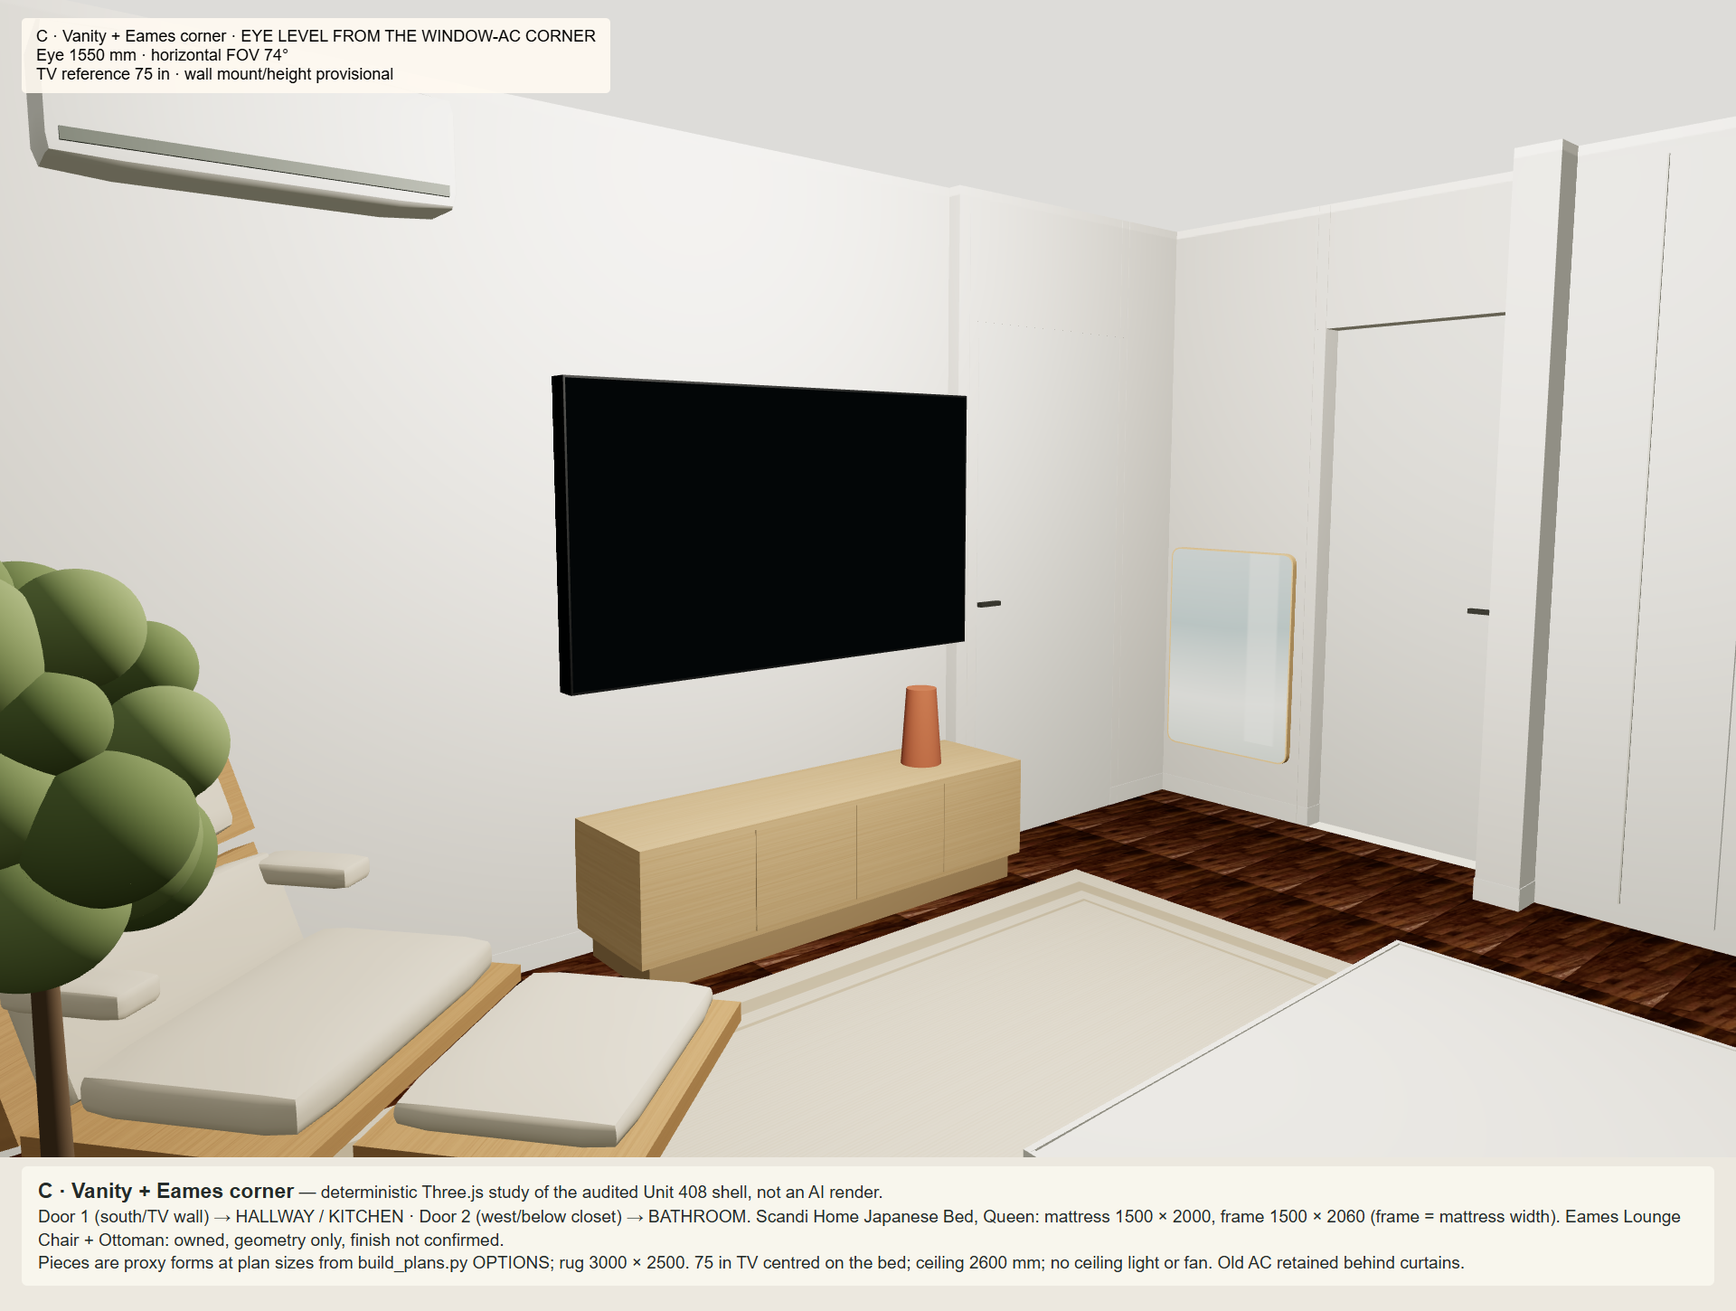
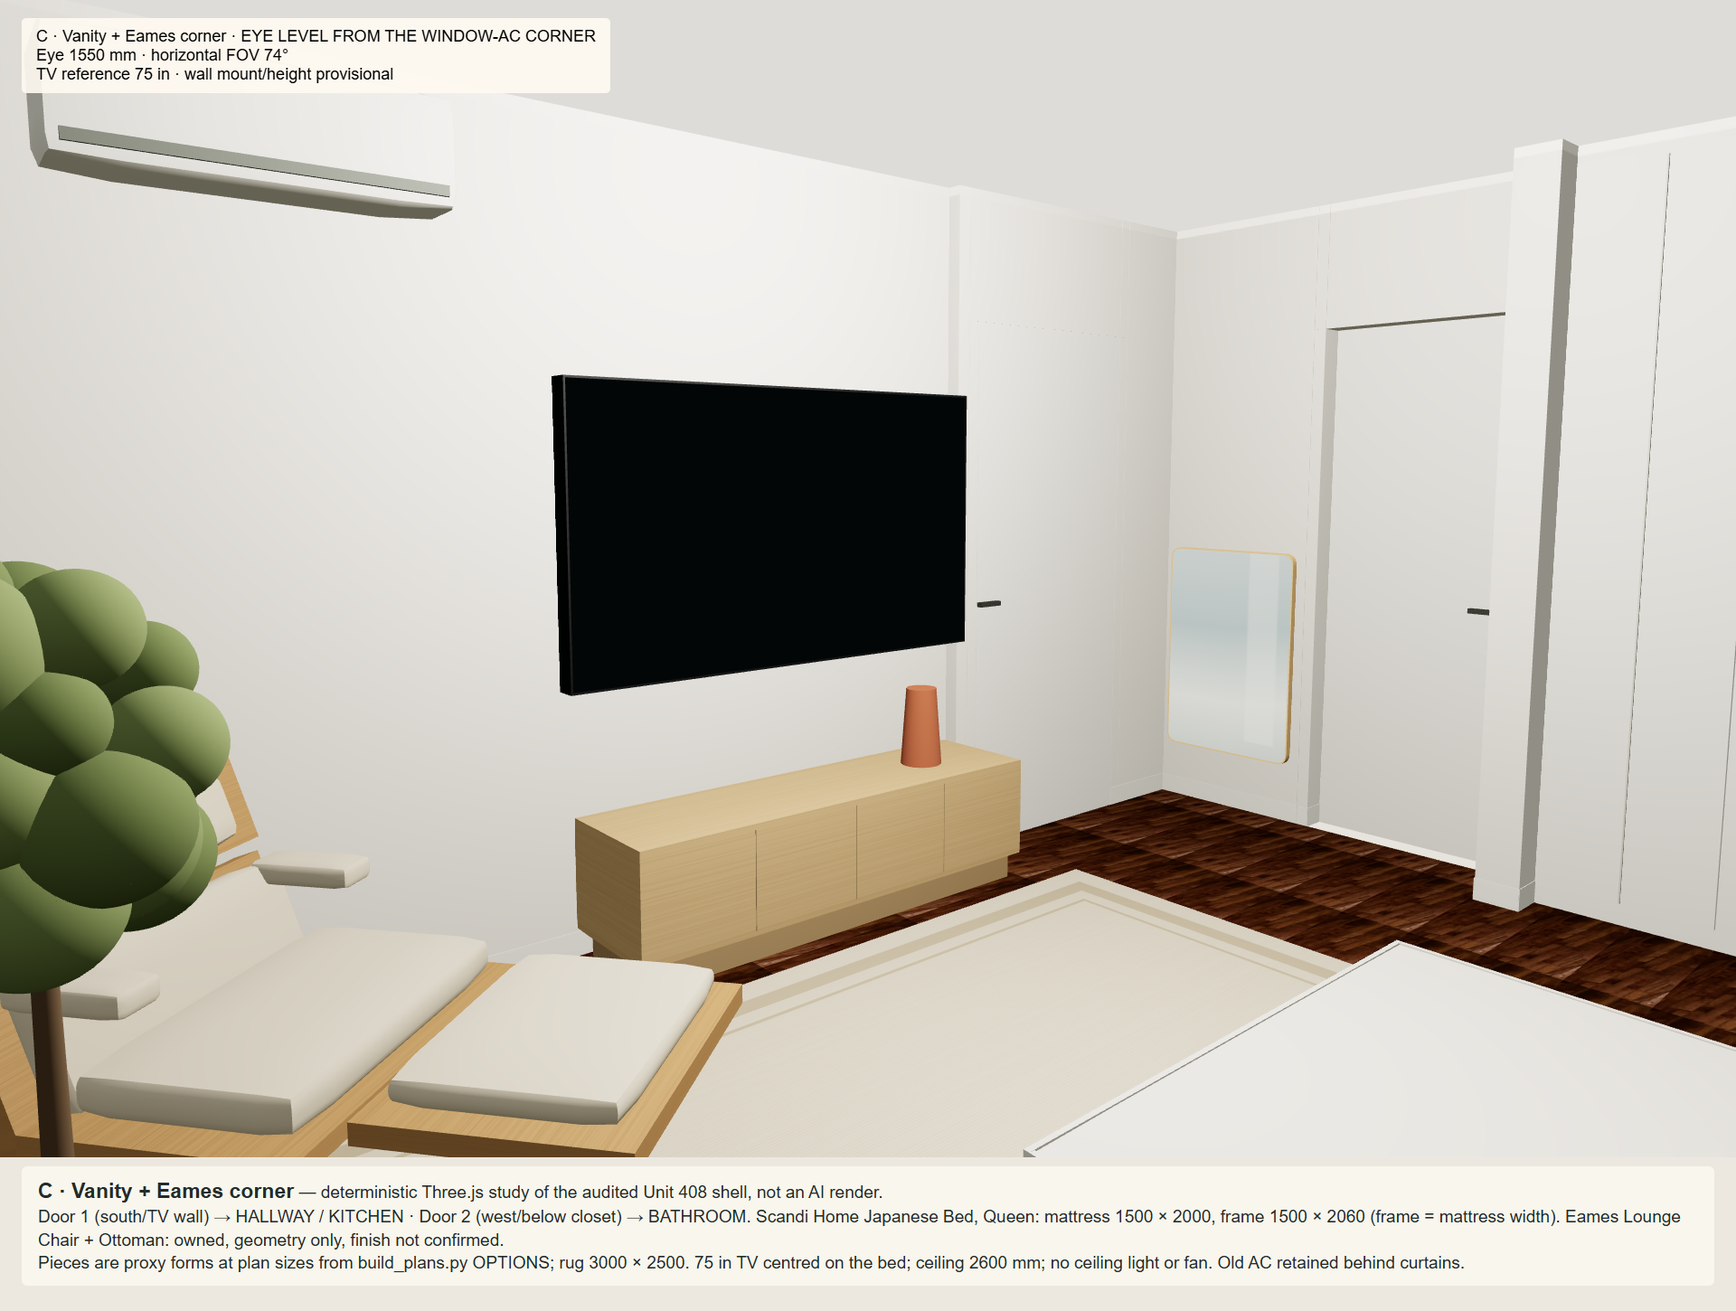
fix(queen): Rebuild A/C/E model views at the brochure Eames sizes
The plans session resized the Eames pieces to Herman Miller's APAC
brochure (chair 832 x 832 x 819, ottoman 660 x 546 x 438; positions
unchanged, E's parked ottoman centre now 3600, 2363). The 12 A/C/E
model views are re-rendered from the synced OPTIONS (gate 16/16 PASS,
0.0 mm); plan B and the WITHHELD status of every view are unchanged.
Pitch lines follow the synced plan texts.

Changed region(s): [[0.1562, 0.7138, 0.4375, 0.9], [0.125, 0.6207, 0.1562, 0.6828]]

diff --git a/queen-oct28/index.html b/queen-oct28/index.html
@@ -18,6 +18,6 @@ figcaption{font-size:.85rem;color:#4d4339;margin-top:.3rem}.withheld figcaption{
 <p>Four layouts around the Scandi Home Japanese Bed, Queen (mattress 1500 x 2000), with room for the couple&#39;s own Eames lounge chair and ottoman, or a vanity. Bed, rug, curtains and walkways are to scale on the room model; each view is checked against that model before an AI style render is shown.</p>
 <p class="small">Day views only: night and golden-hour views do not exist yet for this set. Plan D (bed on the south wall) is excluded. Products beyond the bed are not scheduled yet; nothing here is a purchase list.</p>
 </header>
-<main><section class="scheme" id="plan-A"><h2><span>A</span> Eames corner</h2><p>Bed moves 350 mm west. The Eames lounge chair and ottoman sit beside the TV console, turned 40° toward the bed.</p><p>For Isah: Eames chair + ottoman by the TV, angled to the bed.</p><ul><li>The 350 mm shift is what lets the ottoman stay in front of the chair and still leave a 0.6 m walk to the window side of the bed.</li><li>Window side stays open; the plant fills the corner beside the right bedside.</li></ul><p class="small">Plan checks: 12 of 12 pass on the to-scale drawing.</p><div class="grid"><figure class="plan"><a href="assets/QA-room-plan.png"><img loading="lazy" src="assets/QA-room-plan.png" alt="Plan A, bird&#39;s-eye model view"></a><figcaption>Bird&#39;s-eye model view · plan A, true scale</figcaption></figure><figure class="withheld"><a href="assets/QA-room-entry.png"><img loading="lazy" src="assets/QA-room-entry.png" alt="Plan A · Entrance door · Day, model view"></a><figcaption><strong>Entrance door · Day</strong> · Deterministic room-model view at true scale, not an AI render (Entrance door · Day, eye 1.55 m). Render withheld: photoreal render staged behind the Codex image quota (resets 2 Nov 2026 14:08 PHT); the Eames chair finish must be confirmed by Ivan before the pass runs</figcaption></figure><figure class="withheld"><a href="assets/QA-room-bathroom.png"><img loading="lazy" src="assets/QA-room-bathroom.png" alt="Plan A · Bathroom door · Day, model view"></a><figcaption><strong>Bathroom door · Day</strong> · Deterministic room-model view at true scale, not an AI render (Bathroom door · Day, eye 1.55 m). Render withheld: photoreal render staged behind the Codex image quota (resets 2 Nov 2026 14:08 PHT); the Eames chair finish must be confirmed by Ivan before the pass runs</figcaption></figure><figure class="withheld"><a href="assets/QA-room-windowac.png"><img loading="lazy" src="assets/QA-room-windowac.png" alt="Plan A · Window corner · Day, model view"></a><figcaption><strong>Window corner · Day</strong> · Deterministic room-model view at true scale, not an AI render (Window corner · Day, eye 1.55 m). Render withheld: photoreal render staged behind the Codex image quota (resets 2 Nov 2026 14:08 PHT); the Eames chair finish must be confirmed by Ivan before the pass runs</figcaption></figure></div></section><section class="scheme" id="plan-B"><h2><span>B</span> Window vanity</h2><p>Bed moves 350 mm west. A vanity sits on the north wall beside the window, lit from the side.</p><p>For Isah: Vanity 900 x 400 + stool, daylight from the right.</p><ul><li>Best make-up light: window to the side, never behind her.</li><li>Plant holds the south-east corner; the Eames can still go there later (see C).</li></ul><p class="small">Plan checks: 13 of 13 pass on the to-scale drawing.</p><div class="grid"><figure class="plan"><a href="assets/QB-room-plan.png"><img loading="lazy" src="assets/QB-room-plan.png" alt="Plan B, bird&#39;s-eye model view"></a><figcaption>Bird&#39;s-eye model view · plan B, true scale</figcaption></figure><figure class="withheld"><a href="assets/QB-room-entry.png"><img loading="lazy" src="assets/QB-room-entry.png" alt="Plan B · Entrance door · Day, model view"></a><figcaption><strong>Entrance door · Day</strong> · Deterministic room-model view at true scale, not an AI render (Entrance door · Day, eye 1.55 m). Render withheld: photoreal render staged behind the Codex image quota (resets 2 Nov 2026 14:08 PHT); the Eames chair finish must be confirmed by Ivan before the pass runs</figcaption></figure><figure class="withheld"><a href="assets/QB-room-bathroom.png"><img loading="lazy" src="assets/QB-room-bathroom.png" alt="Plan B · Bathroom door · Day, model view"></a><figcaption><strong>Bathroom door · Day</strong> · Deterministic room-model view at true scale, not an AI render (Bathroom door · Day, eye 1.55 m). Render withheld: photoreal render staged behind the Codex image quota (resets 2 Nov 2026 14:08 PHT); the Eames chair finish must be confirmed by Ivan before the pass runs</figcaption></figure><figure class="withheld"><a href="assets/QB-room-windowac.png"><img loading="lazy" src="assets/QB-room-windowac.png" alt="Plan B · Window corner · Day, model view"></a><figcaption><strong>Window corner · Day</strong> · Deterministic room-model view at true scale, not an AI render (Window corner · Day, eye 1.55 m). Render withheld: photoreal render staged behind the Codex image quota (resets 2 Nov 2026 14:08 PHT); the Eames chair finish must be confirmed by Ivan before the pass runs</figcaption></figure></div></section><section class="scheme" id="plan-C"><h2><span>C</span> Vanity + Eames corner</h2><p>Plan B plus the Eames lounge chair and ottoman beside the console, turned 40° toward the bed.</p><p>For Isah: Both: vanity by the window, Eames by the TV.</p><ul><li>Most for Isah, and still every walkway passes, ottoman in place.</li><li>The chair sits under the split AC (high on the wall); the plant moves to the window beside it.</li></ul><p class="small">Plan checks: 14 of 14 pass on the to-scale drawing.</p><div class="grid"><figure class="plan"><a href="assets/QC-room-plan.png"><img loading="lazy" src="assets/QC-room-plan.png" alt="Plan C, bird&#39;s-eye model view"></a><figcaption>Bird&#39;s-eye model view · plan C, true scale</figcaption></figure><figure class="withheld"><a href="assets/QC-room-entry.png"><img loading="lazy" src="assets/QC-room-entry.png" alt="Plan C · Entrance door · Day, model view"></a><figcaption><strong>Entrance door · Day</strong> · Deterministic room-model view at true scale, not an AI render (Entrance door · Day, eye 1.55 m). Render withheld: photoreal render staged behind the Codex image quota (resets 2 Nov 2026 14:08 PHT); the Eames chair finish must be confirmed by Ivan before the pass runs</figcaption></figure><figure class="withheld"><a href="assets/QC-room-bathroom.png"><img loading="lazy" src="assets/QC-room-bathroom.png" alt="Plan C · Bathroom door · Day, model view"></a><figcaption><strong>Bathroom door · Day</strong> · Deterministic room-model view at true scale, not an AI render (Bathroom door · Day, eye 1.55 m). Render withheld: photoreal render staged behind the Codex image quota (resets 2 Nov 2026 14:08 PHT); the Eames chair finish must be confirmed by Ivan before the pass runs</figcaption></figure><figure class="withheld"><a href="assets/QC-room-windowac.png"><img loading="lazy" src="assets/QC-room-windowac.png" alt="Plan C · Window corner · Day, model view"></a><figcaption><strong>Window corner · Day</strong> · Deterministic room-model view at true scale, not an AI render (Window corner · Day, eye 1.55 m). Render withheld: photoreal render staged behind the Codex image quota (resets 2 Nov 2026 14:08 PHT); the Eames chair finish must be confirmed by Ivan before the pass runs</figcaption></figure></div></section><section class="scheme" id="plan-E"><h2><span>E</span> Vanity as Isah&#x27;s bedside</h2><p>Bed moves 650 mm east toward the window. A long vanity replaces Isah&#x27;s bedside table; the Eames sits on the console&#x27;s door side.</p><p>For Isah: Vanity doubles as her nightstand + Eames.</p><ul><li>The ottoman lives at the foot of the bed. Pulled in front of the chair (dashed) it leaves only about 0.35 m to the window side of the bed, so slide it back after sitting.</li><li>Vanity is 3 m from the window: needs a lit mirror for make-up.</li></ul><p class="small">Plan checks: 13 of 14 pass on the to-scale drawing.</p><div class="grid"><figure class="plan"><a href="assets/QE-room-plan.png"><img loading="lazy" src="assets/QE-room-plan.png" alt="Plan E, bird&#39;s-eye model view"></a><figcaption>Bird&#39;s-eye model view · plan E, true scale</figcaption></figure><figure class="withheld"><a href="assets/QE-room-entry.png"><img loading="lazy" src="assets/QE-room-entry.png" alt="Plan E · Entrance door · Day, model view"></a><figcaption><strong>Entrance door · Day</strong> · Deterministic room-model view at true scale, not an AI render (Entrance door · Day, eye 1.55 m). Render withheld: photoreal render staged behind the Codex image quota (resets 2 Nov 2026 14:08 PHT); the Eames chair finish must be confirmed by Ivan before the pass runs</figcaption></figure><figure class="withheld"><a href="assets/QE-room-bathroom.png"><img loading="lazy" src="assets/QE-room-bathroom.png" alt="Plan E · Bathroom door · Day, model view"></a><figcaption><strong>Bathroom door · Day</strong> · Deterministic room-model view at true scale, not an AI render (Bathroom door · Day, eye 1.55 m). Render withheld: photoreal render staged behind the Codex image quota (resets 2 Nov 2026 14:08 PHT); the Eames chair finish must be confirmed by Ivan before the pass runs</figcaption></figure><figure class="withheld"><a href="assets/QE-room-windowac.png"><img loading="lazy" src="assets/QE-room-windowac.png" alt="Plan E · Window corner · Day, model view"></a><figcaption><strong>Window corner · Day</strong> · Deterministic room-model view at true scale, not an AI render (Window corner · Day, eye 1.55 m). Render withheld: photoreal render staged behind the Codex image quota (resets 2 Nov 2026 14:08 PHT); the Eames chair finish must be confirmed by Ivan before the pass runs</figcaption></figure></div></section>
+<main><section class="scheme" id="plan-A"><h2><span>A</span> Eames corner</h2><p>Bed moves 350 mm west, toward the wardrobe. The Eames lounge chair and ottoman sit beside the TV console, turned 40° toward the bed.</p><p>For Isah: Eames chair + ottoman by the TV, angled to the bed.</p><ul><li>The 350 mm shift is what lets the ottoman stay in front of the chair and still leave about 0.65 m to walk to the window side of the bed.</li><li>Window side stays open; the plant fills the corner beside the right bedside.</li></ul><p class="small">Plan checks: 12 of 12 pass on the to-scale drawing.</p><div class="grid"><figure class="plan"><a href="assets/QA-room-plan.png"><img loading="lazy" src="assets/QA-room-plan.png" alt="Plan A, bird&#39;s-eye model view"></a><figcaption>Bird&#39;s-eye model view · plan A, true scale</figcaption></figure><figure class="withheld"><a href="assets/QA-room-entry.png"><img loading="lazy" src="assets/QA-room-entry.png" alt="Plan A · Entrance door · Day, model view"></a><figcaption><strong>Entrance door · Day</strong> · Deterministic room-model view at true scale, not an AI render (Entrance door · Day, eye 1.55 m). Render withheld: photoreal render staged behind the Codex image quota (resets 2 Nov 2026 14:08 PHT); the Eames chair finish must be confirmed by Ivan before the pass runs</figcaption></figure><figure class="withheld"><a href="assets/QA-room-bathroom.png"><img loading="lazy" src="assets/QA-room-bathroom.png" alt="Plan A · Bathroom door · Day, model view"></a><figcaption><strong>Bathroom door · Day</strong> · Deterministic room-model view at true scale, not an AI render (Bathroom door · Day, eye 1.55 m). Render withheld: photoreal render staged behind the Codex image quota (resets 2 Nov 2026 14:08 PHT); the Eames chair finish must be confirmed by Ivan before the pass runs</figcaption></figure><figure class="withheld"><a href="assets/QA-room-windowac.png"><img loading="lazy" src="assets/QA-room-windowac.png" alt="Plan A · Window corner · Day, model view"></a><figcaption><strong>Window corner · Day</strong> · Deterministic room-model view at true scale, not an AI render (Window corner · Day, eye 1.55 m). Render withheld: photoreal render staged behind the Codex image quota (resets 2 Nov 2026 14:08 PHT); the Eames chair finish must be confirmed by Ivan before the pass runs</figcaption></figure></div></section><section class="scheme" id="plan-B"><h2><span>B</span> Window vanity</h2><p>Bed moves 350 mm west, toward the wardrobe. A vanity sits on the north wall beside the window, lit from the side.</p><p>For Isah: Vanity 900 × 400 + stool, daylight from the right.</p><ul><li>Best make-up light: window to the side, never behind her.</li><li>Plant holds the south-east corner; the Eames can still go there later (see C).</li></ul><p class="small">Plan checks: 13 of 13 pass on the to-scale drawing.</p><div class="grid"><figure class="plan"><a href="assets/QB-room-plan.png"><img loading="lazy" src="assets/QB-room-plan.png" alt="Plan B, bird&#39;s-eye model view"></a><figcaption>Bird&#39;s-eye model view · plan B, true scale</figcaption></figure><figure class="withheld"><a href="assets/QB-room-entry.png"><img loading="lazy" src="assets/QB-room-entry.png" alt="Plan B · Entrance door · Day, model view"></a><figcaption><strong>Entrance door · Day</strong> · Deterministic room-model view at true scale, not an AI render (Entrance door · Day, eye 1.55 m). Render withheld: photoreal render staged behind the Codex image quota (resets 2 Nov 2026 14:08 PHT); the Eames chair finish must be confirmed by Ivan before the pass runs</figcaption></figure><figure class="withheld"><a href="assets/QB-room-bathroom.png"><img loading="lazy" src="assets/QB-room-bathroom.png" alt="Plan B · Bathroom door · Day, model view"></a><figcaption><strong>Bathroom door · Day</strong> · Deterministic room-model view at true scale, not an AI render (Bathroom door · Day, eye 1.55 m). Render withheld: photoreal render staged behind the Codex image quota (resets 2 Nov 2026 14:08 PHT); the Eames chair finish must be confirmed by Ivan before the pass runs</figcaption></figure><figure class="withheld"><a href="assets/QB-room-windowac.png"><img loading="lazy" src="assets/QB-room-windowac.png" alt="Plan B · Window corner · Day, model view"></a><figcaption><strong>Window corner · Day</strong> · Deterministic room-model view at true scale, not an AI render (Window corner · Day, eye 1.55 m). Render withheld: photoreal render staged behind the Codex image quota (resets 2 Nov 2026 14:08 PHT); the Eames chair finish must be confirmed by Ivan before the pass runs</figcaption></figure></div></section><section class="scheme" id="plan-C"><h2><span>C</span> Vanity + Eames corner</h2><p>Plan B plus the Eames lounge chair and ottoman beside the console, turned 40° toward the bed.</p><p>For Isah: Vanity by the window + Eames by the TV.</p><ul><li>Most for Isah, and still every walkway passes, ottoman in place.</li><li>The chair sits under the split AC (high on the wall); the plant moves to the window beside it.</li></ul><p class="small">Plan checks: 14 of 14 pass on the to-scale drawing.</p><div class="grid"><figure class="plan"><a href="assets/QC-room-plan.png"><img loading="lazy" src="assets/QC-room-plan.png" alt="Plan C, bird&#39;s-eye model view"></a><figcaption>Bird&#39;s-eye model view · plan C, true scale</figcaption></figure><figure class="withheld"><a href="assets/QC-room-entry.png"><img loading="lazy" src="assets/QC-room-entry.png" alt="Plan C · Entrance door · Day, model view"></a><figcaption><strong>Entrance door · Day</strong> · Deterministic room-model view at true scale, not an AI render (Entrance door · Day, eye 1.55 m). Render withheld: photoreal render staged behind the Codex image quota (resets 2 Nov 2026 14:08 PHT); the Eames chair finish must be confirmed by Ivan before the pass runs</figcaption></figure><figure class="withheld"><a href="assets/QC-room-bathroom.png"><img loading="lazy" src="assets/QC-room-bathroom.png" alt="Plan C · Bathroom door · Day, model view"></a><figcaption><strong>Bathroom door · Day</strong> · Deterministic room-model view at true scale, not an AI render (Bathroom door · Day, eye 1.55 m). Render withheld: photoreal render staged behind the Codex image quota (resets 2 Nov 2026 14:08 PHT); the Eames chair finish must be confirmed by Ivan before the pass runs</figcaption></figure><figure class="withheld"><a href="assets/QC-room-windowac.png"><img loading="lazy" src="assets/QC-room-windowac.png" alt="Plan C · Window corner · Day, model view"></a><figcaption><strong>Window corner · Day</strong> · Deterministic room-model view at true scale, not an AI render (Window corner · Day, eye 1.55 m). Render withheld: photoreal render staged behind the Codex image quota (resets 2 Nov 2026 14:08 PHT); the Eames chair finish must be confirmed by Ivan before the pass runs</figcaption></figure></div></section><section class="scheme" id="plan-E"><h2><span>E</span> Vanity as Isah&#x27;s bedside</h2><p>Bed moves 650 mm east toward the window. A long vanity replaces Isah&#x27;s bedside table; the Eames sits on the console&#x27;s door side.</p><p>For Isah: Vanity doubles as her nightstand + Eames.</p><ul><li>The ottoman lives at the foot of the bed. Pulled in front of the chair (dashed) it leaves only about 0.35 m to the window side of the bed, so slide it back after sitting.</li><li>Vanity is 3 m from the window: needs a lit mirror for make-up.</li></ul><p class="small">Plan checks: 13 of 14 pass on the to-scale drawing.</p><div class="grid"><figure class="plan"><a href="assets/QE-room-plan.png"><img loading="lazy" src="assets/QE-room-plan.png" alt="Plan E, bird&#39;s-eye model view"></a><figcaption>Bird&#39;s-eye model view · plan E, true scale</figcaption></figure><figure class="withheld"><a href="assets/QE-room-entry.png"><img loading="lazy" src="assets/QE-room-entry.png" alt="Plan E · Entrance door · Day, model view"></a><figcaption><strong>Entrance door · Day</strong> · Deterministic room-model view at true scale, not an AI render (Entrance door · Day, eye 1.55 m). Render withheld: photoreal render staged behind the Codex image quota (resets 2 Nov 2026 14:08 PHT); the Eames chair finish must be confirmed by Ivan before the pass runs</figcaption></figure><figure class="withheld"><a href="assets/QE-room-bathroom.png"><img loading="lazy" src="assets/QE-room-bathroom.png" alt="Plan E · Bathroom door · Day, model view"></a><figcaption><strong>Bathroom door · Day</strong> · Deterministic room-model view at true scale, not an AI render (Bathroom door · Day, eye 1.55 m). Render withheld: photoreal render staged behind the Codex image quota (resets 2 Nov 2026 14:08 PHT); the Eames chair finish must be confirmed by Ivan before the pass runs</figcaption></figure><figure class="withheld"><a href="assets/QE-room-windowac.png"><img loading="lazy" src="assets/QE-room-windowac.png" alt="Plan E · Window corner · Day, model view"></a><figcaption><strong>Window corner · Day</strong> · Deterministic room-model view at true scale, not an AI render (Window corner · Day, eye 1.55 m). Render withheld: photoreal render staged behind the Codex image quota (resets 2 Nov 2026 14:08 PHT); the Eames chair finish must be confirmed by Ivan before the pass runs</figcaption></figure></div></section>
 <section class="scheme"><h2>Before ordering</h2><p>The bed frame is 1500 mm wide (frame = mattress width on Scandi Home&#39;s size chart). The Eames chair and ottoman are the couple&#39;s own; their finish is not confirmed, so the model views show geometry only. The ceiling is 2600 mm in the model, not taped. Views marked withheld show the true-scale model view because their render did not pass QA.</p></section>
 </main></body></html>
